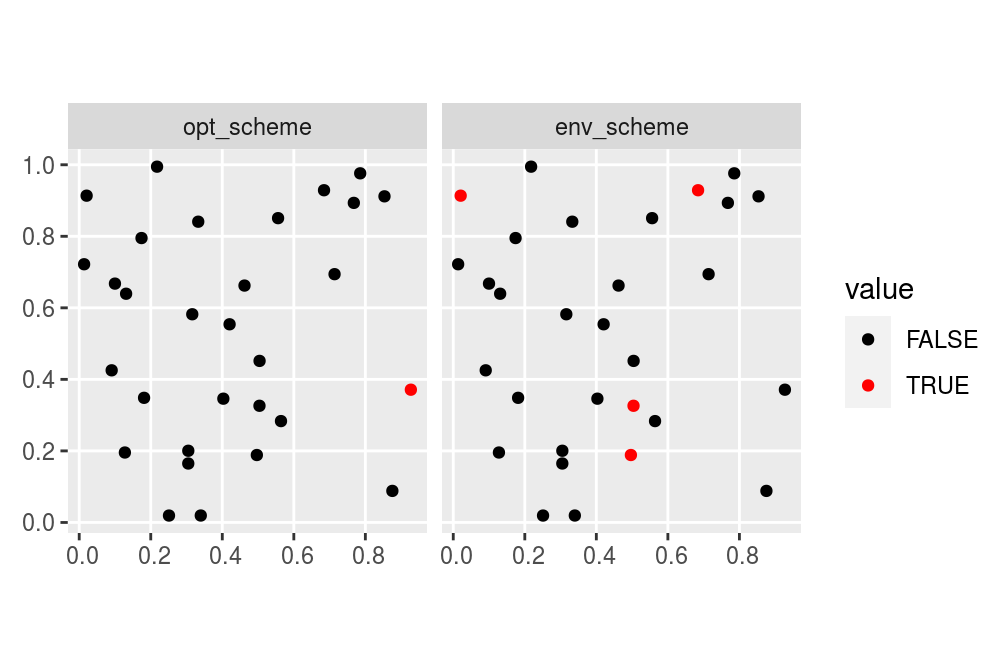
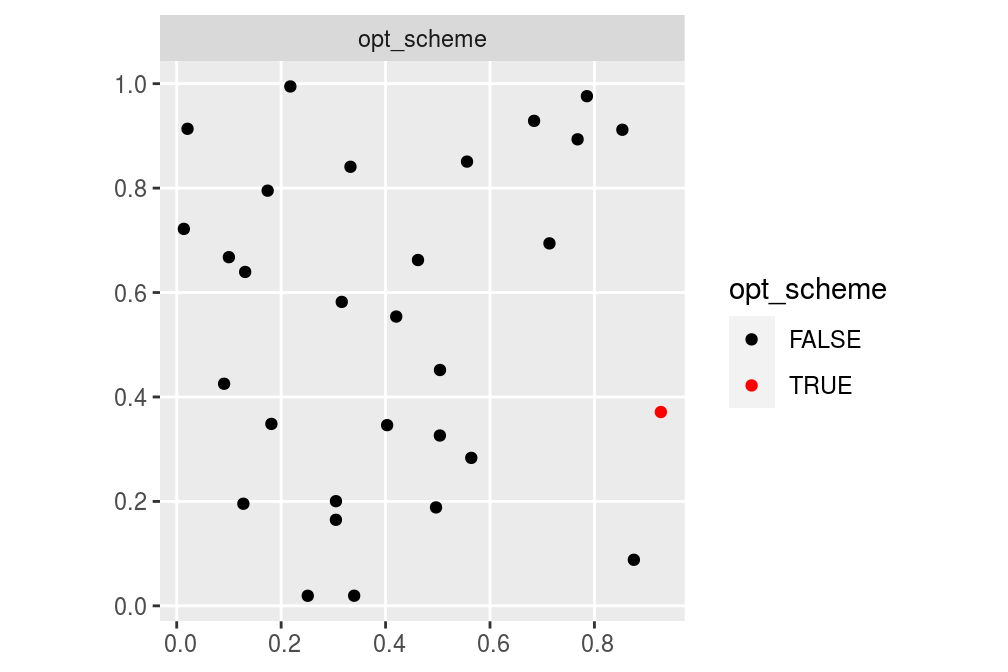
update vigns, fix most cran check issues

diff --git a/docs/articles/simulation.html b/docs/articles/simulation.html
@@ -99,7 +99,7 @@
 <h2 class="hasAnchor">
 <a href="#introduction" class="anchor"></a>Introduction</h2>
 <p>The resources available for conservation are limited. To ensure that conservation resources are allocated cost-effectively, conservation plans (termed prioritizations) can be developed – using a combination of economic, biodiversity, and land-use data – to prioritize a set of sites for conservation management (e.g. protected area establishment). However, existing data on biodiversity patterns is incomplete. As a consequence, spatial prioritizations can potentially be improved by collecting additional data (e.g. surveying sites to refine estimates of which species are present inside them). However, this is complicated by the fact that surveying sites consumes limited resources that also need to be used for conservation management. Thus decision makers need to strategically prioritize sites for surveys that will substantially improve spatial prioritisations—this is not a trivial task.</p>
-<p>The <em>surveyvoi</em> package is decision support tool for prioritizing sites for surveys based on their potential to improve spatial prioritizations for managing biodiversity. Given a set of sites that could potentially be acquired for conservation management – wherein some sites have previously been surveyed and other sites have not – this package aims to identify which sites should be surveyed because doing so could lead to vastly superior conservation management plans (i.e. the management <em>decision</em>). Methods are provided to calculate the <em>expected value of the decision given current information</em> (<code>evdci</code> function), and the <em>expected value of the decision given a survey scheme</em> (<code>evdsi</code> function). Furthermore, by examining survey schemes, optimal survey schemes can be identified (<code>optimal_survey_scheme</code> function). This package requires the <a href="https://www.gurobi.com"><em>Gurobi</em> software suite</a>. In this vignette, we will use a simulated dataset to explore these methods.</p>
+<p>The <em>surveyvoi</em> package is decision support tool for prioritizing sites for surveys based on their potential to improve spatial prioritizations for managing biodiversity. Given a set of sites that could potentially be acquired for conservation management – wherein some sites have previously been surveyed and other sites have not – this package aims to identify which sites should be surveyed because doing so could lead to vastly superior conservation management plans (i.e. the management <em>decision</em>). Methods are provided to calculate the <em>expected value of the decision given current information</em> (<code>evdci</code> function), and the <em>expected value of the decision given a survey scheme</em> (<code>evdsi</code> function). Furthermore, by examining survey schemes, optimal survey schemes can be identified (<code>optimal_survey_scheme</code> function). In this vignette, we will use a simulated dataset to explore these methods.</p>
 </div>
 <div id="setup" class="section level2">
 <h2 class="hasAnchor">
@@ -197,7 +197,7 @@
   <span class="kw">n_features</span> <span class="kw">=</span> <span class="fl">1</span>, <span class="kw">proportion_of_survey_features</span> <span class="kw">=</span> <span class="fl">1</span>)
 
 <span class="co"># manually set target</span>
-<span class="no">feature_data</span>$<span class="no">target</span> <span class="kw">&lt;-</span> <span class="fl">20</span>
+<span class="no">feature_data</span>$<span class="no">target</span> <span class="kw">&lt;-</span> <span class="fl">10</span>
 
 <span class="co"># print feature data</span>
 <span class="fu"><a href="https://rdrr.io/r/base/print.html">print</a></span>(<span class="no">feature_data</span>)</pre></body></html></div>
@@ -308,7 +308,7 @@
 
 <span class="co"># print value</span>
 <span class="fu"><a href="https://rdrr.io/r/base/print.html">print</a></span>(<span class="no">evd_current</span>)</pre></body></html></div>
-<pre><code>## [1] 0.001751786</code></pre>
+<pre><code>## [1] 0.9992836</code></pre>
 <p>We can potentially improve the <em>expected value of the decision given current information</em> by learning more about which sites are more likely (and less likely) to contain the conservation feature.</p>
 </div>
 <div id="survey-schemes" class="section level2">
@@ -431,13 +431,13 @@
 <span class="co"># print values</span>
 <span class="fu"><a href="https://rdrr.io/r/base/print.html">print</a></span>(<span class="no">evd_survey_schemes</span>)</pre></body></html></div>
 <pre><code>## # A tibble: 5 x 2
-##   name               value
-##   &lt;chr&gt;              &lt;dbl&gt;
-## 1 geo_scheme   0.00180626 
-## 2 env_scheme   0.000902544
-## 3 unc_scheme   0.00180626 
-## 4 cheap_scheme 0.00180626 
-## 5 rich_scheme  0.000880966</code></pre>
+##   name            value
+##   &lt;chr&gt;           &lt;dbl&gt;
+## 1 geo_scheme   0.999015
+## 2 env_scheme   0.998694
+## 3 unc_scheme   0.999015
+## 4 cheap_scheme 0.999015
+## 5 rich_scheme  0.997666</code></pre>
 <p>We can also calculate how much the information gained from each of the survey schemes is expected to improve the management decision. This quantity is called the <em>return on investment</em> for each survey scheme.</p>
 <div class="sourceCode"><html><body><pre class="r"><span class="co"># estimate the return on investment for each survey scheme</span>
 <span class="no">evd_survey_schemes</span>$<span class="no">roi</span> <span class="kw">&lt;-</span>
@@ -446,13 +446,13 @@
 <span class="co"># print values</span>
 <span class="fu"><a href="https://rdrr.io/r/base/print.html">print</a></span>(<span class="no">evd_survey_schemes</span>)</pre></body></html></div>
 <pre><code>## # A tibble: 5 x 3
-##   name               value           roi
-##   &lt;chr&gt;              &lt;dbl&gt;         &lt;dbl&gt;
-## 1 geo_scheme   0.00180626   0.0000544704
-## 2 env_scheme   0.000902544 -0.000849242 
-## 3 unc_scheme   0.00180626   0.0000544704
-## 4 cheap_scheme 0.00180626   0.0000544704
-## 5 rich_scheme  0.000880966 -0.000870820</code></pre>
+##   name            value          roi
+##   &lt;chr&gt;           &lt;dbl&gt;        &lt;dbl&gt;
+## 1 geo_scheme   0.999015 -0.000268822
+## 2 env_scheme   0.998694 -0.000589986
+## 3 unc_scheme   0.999015 -0.000268822
+## 4 cheap_scheme 0.999015 -0.000268822
+## 5 rich_scheme  0.997666 -0.00161718</code></pre>
 <div class="sourceCode"><html><body><pre class="r"><span class="co"># visualize the return on investment for each survey scheme</span>
 <span class="co"># color the best survey scheme in blue</span>
 <span class="no">evd_survey_schemes</span> <span class="kw">%&gt;%</span>
@@ -498,18 +498,15 @@
 <div class="sourceCode"><html><body><pre class="r"><span class="co"># add optimal scheme to site data</span>
 <span class="no">site_data</span>$<span class="no">opt_scheme</span> <span class="kw">&lt;-</span> <span class="fu"><a href="https://rdrr.io/pkg/RandomFields/man/QMath.html">c</a></span>(<span class="no">opt_scheme</span>[<span class="fl">1</span>, ])
 
-<span class="co"># plot optimal scheme and the environmental diversity scheme</span>
+<span class="co"># plot optimal scheme</span>
 <span class="no">site_data</span> <span class="kw">%&gt;%</span>
-  <span class="fu"><a href="https://dplyr.tidyverse.org/reference/select.html">select</a></span>(<span class="no">opt_scheme</span>, <span class="no">env_scheme</span>) <span class="kw">%&gt;%</span>
-  <span class="fu"><a href="https://tidyr.tidyverse.org/reference/gather.html">gather</a></span>(<span class="no">name</span>, <span class="no">value</span>, -<span class="no">geometry</span>) <span class="kw">%&gt;%</span>
-  <span class="fu"><a href="https://dplyr.tidyverse.org/reference/mutate_all.html">mutate_if</a></span>(<span class="no">is.logical</span>, <span class="no">as.character</span>) <span class="kw">%&gt;%</span>
-  <span class="fu"><a href="https://dplyr.tidyverse.org/reference/mutate.html">mutate</a></span>(<span class="kw">name</span> <span class="kw">=</span> <span class="fu"><a href="https://rdrr.io/r/base/factor.html">factor</a></span>(<span class="no">name</span>, <span class="kw">levels</span> <span class="kw">=</span> <span class="fu"><a href="https://rdrr.io/r/base/unique.html">unique</a></span>(<span class="no">name</span>))) <span class="kw">%&gt;%</span>
-  <span class="fu"><a href="https://ggplot2.tidyverse.org/reference/ggplot.html">ggplot</a></span>() +
-    <span class="fu"><a href="https://ggplot2.tidyverse.org/reference/ggsf.html">geom_sf</a></span>(<span class="fu"><a href="https://ggplot2.tidyverse.org/reference/aes.html">aes</a></span>(<span class="kw">color</span> <span class="kw">=</span> <span class="no">value</span>)) +
-    <span class="fu"><a href="https://ggplot2.tidyverse.org/reference/facet_wrap.html">facet_wrap</a></span>(~ <span class="no">name</span>, <span class="kw">nrow</span> <span class="kw">=</span> <span class="fl">1</span>) +
-    <span class="fu"><a href="https://ggplot2.tidyverse.org/reference/scale_manual.html">scale_color_manual</a></span>(<span class="kw">values</span> <span class="kw">=</span> <span class="fu"><a href="https://rdrr.io/pkg/RandomFields/man/QMath.html">c</a></span>(<span class="st">"TRUE"</span> <span class="kw">=</span> <span class="st">"red"</span>, <span class="st">"FALSE"</span> <span class="kw">=</span> <span class="st">"black"</span>))</pre></body></html></div>
+<span class="fu"><a href="https://dplyr.tidyverse.org/reference/mutate.html">mutate</a></span>(<span class="kw">name</span> <span class="kw">=</span> <span class="st">"opt_scheme"</span>) <span class="kw">%&gt;%</span>
+<span class="fu"><a href="https://ggplot2.tidyverse.org/reference/ggplot.html">ggplot</a></span>() +
+<span class="fu"><a href="https://ggplot2.tidyverse.org/reference/ggsf.html">geom_sf</a></span>(<span class="fu"><a href="https://ggplot2.tidyverse.org/reference/aes.html">aes</a></span>(<span class="kw">color</span> <span class="kw">=</span> <span class="no">opt_scheme</span>)) +
+<span class="fu"><a href="https://ggplot2.tidyverse.org/reference/facet_wrap.html">facet_wrap</a></span>(~ <span class="no">name</span>, <span class="kw">nrow</span> <span class="kw">=</span> <span class="fl">1</span>) +
+<span class="fu"><a href="https://ggplot2.tidyverse.org/reference/scale_manual.html">scale_color_manual</a></span>(<span class="kw">values</span> <span class="kw">=</span> <span class="fu"><a href="https://rdrr.io/pkg/RandomFields/man/QMath.html">c</a></span>(<span class="st">"TRUE"</span> <span class="kw">=</span> <span class="st">"red"</span>, <span class="st">"FALSE"</span> <span class="kw">=</span> <span class="st">"black"</span>))</pre></body></html></div>
 <p><img src="simulation_files/figure-html/unnamed-chunk-23-1.png" width="504" style="display: block; margin: auto;"></p>
-<p>We can see that the optimal survey scheme (<code>opt_scheme</code>) is different to the scheme based on surveying sites to increase the environmental diversity of surveyed sites (<code>env_scheme</code>). Interestingly, the optimal scheme selects fewer sites than the other survey schemes. This result shows that survey strategies need to ensure adequate funds remain for actually achieving conservation objectives.</p>
+<p>We can see that the optimal survey scheme (<code>opt_scheme</code>) is different to the previous survey schemes. In particular, the optimal scheme selects fewer sites than the other survey schemes. This result shows that survey schemes need to ensure adequate funds remain for actually achieving conservation objectives.</p>
 <div class="sourceCode"><html><body><pre class="r"><span class="co"># calculate return on investment of the optimal scheme</span>
 <span class="no">evd_opt</span> <span class="kw">&lt;-</span> <span class="fu"><a href="../reference/evdsi.html">evdsi</a></span>(
     <span class="kw">site_data</span> <span class="kw">=</span> <span class="no">site_data</span>,
@@ -532,7 +529,7 @@
 
 <span class="co"># calculate value</span>
 <span class="fu"><a href="https://rdrr.io/r/base/print.html">print</a></span>(<span class="no">evd_opt</span>)</pre></body></html></div>
-<pre><code>## [1] 0.002376995</code></pre>
+<pre><code>## [1] 0.9999009</code></pre>
 <div class="sourceCode"><html><body><pre class="r"><span class="co"># append optimal results to results table</span>
 <span class="no">evd_survey_schemes</span> <span class="kw">&lt;-</span> <span class="fu"><a href="https://rdrr.io/r/base/cbind.html">rbind</a></span>(
   <span class="no">evd_survey_schemes</span>,
@@ -541,14 +538,14 @@
 <span class="co"># print updated results table</span>
 <span class="fu"><a href="https://rdrr.io/r/base/print.html">print</a></span>(<span class="no">evd_survey_schemes</span>)</pre></body></html></div>
 <pre><code>## # A tibble: 6 x 3
-##   name               value           roi
-##   &lt;chr&gt;              &lt;dbl&gt;         &lt;dbl&gt;
-## 1 geo_scheme   0.00180626   0.0000544704
-## 2 env_scheme   0.000902544 -0.000849242 
-## 3 unc_scheme   0.00180626   0.0000544704
-## 4 cheap_scheme 0.00180626   0.0000544704
-## 5 rich_scheme  0.000880966 -0.000870820 
-## 6 opt_scheme   0.00237700   0.000625210</code></pre>
+##   name            value          roi
+##   &lt;chr&gt;           &lt;dbl&gt;        &lt;dbl&gt;
+## 1 geo_scheme   0.999015 -0.000268822
+## 2 env_scheme   0.998694 -0.000589986
+## 3 unc_scheme   0.999015 -0.000268822
+## 4 cheap_scheme 0.999015 -0.000268822
+## 5 rich_scheme  0.997666 -0.00161718 
+## 6 opt_scheme   0.999901  0.000617265</code></pre>
 <div class="sourceCode"><html><body><pre class="r"><span class="co"># visualize return on investment values</span>
 <span class="co"># color the best survey scheme in blue</span>
 <span class="no">evd_survey_schemes</span> <span class="kw">%&gt;%</span>
